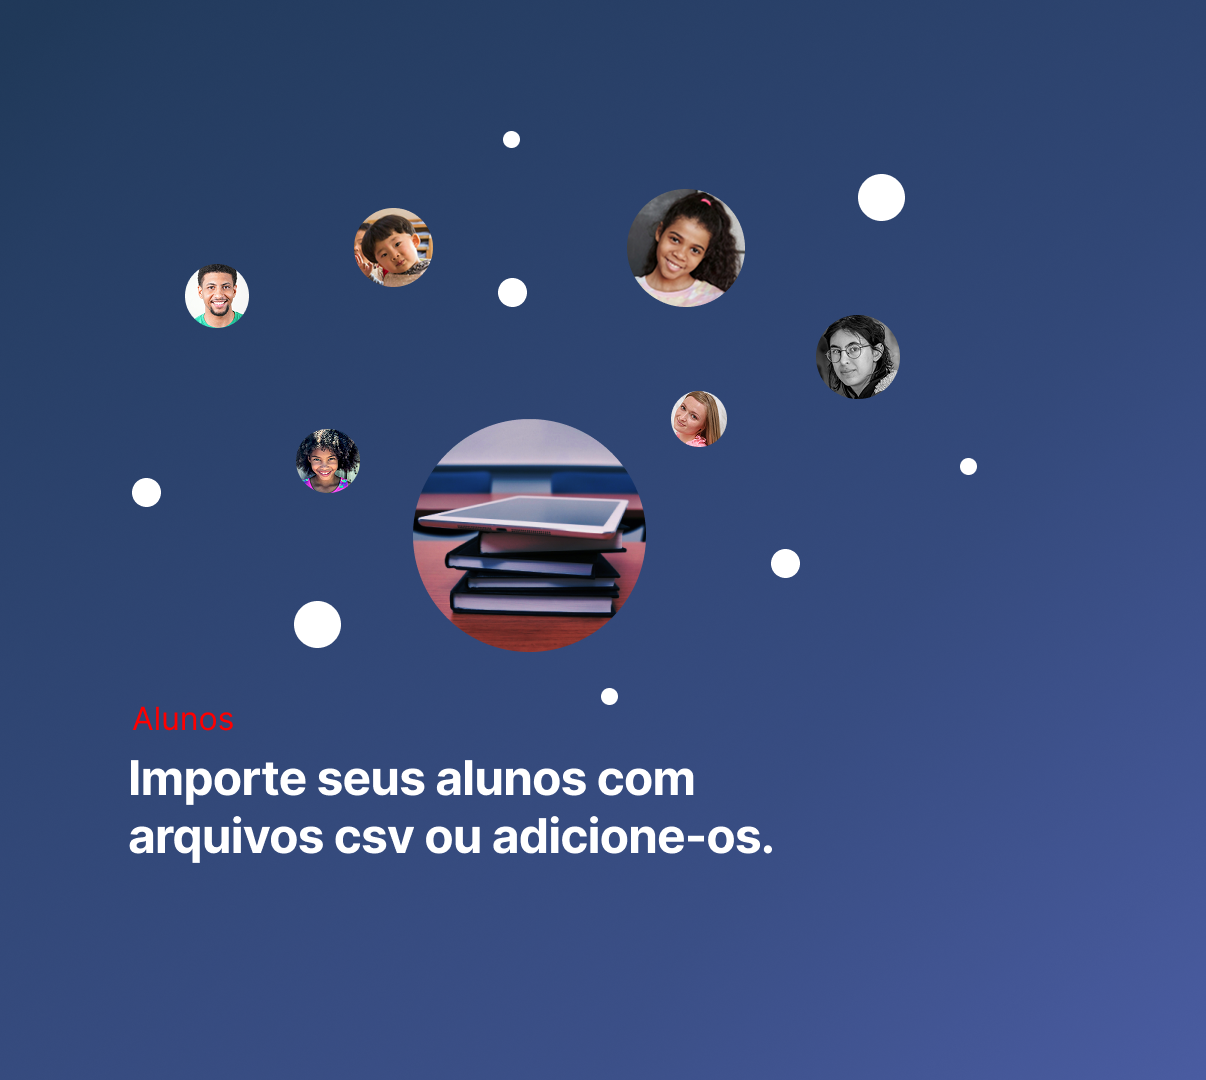
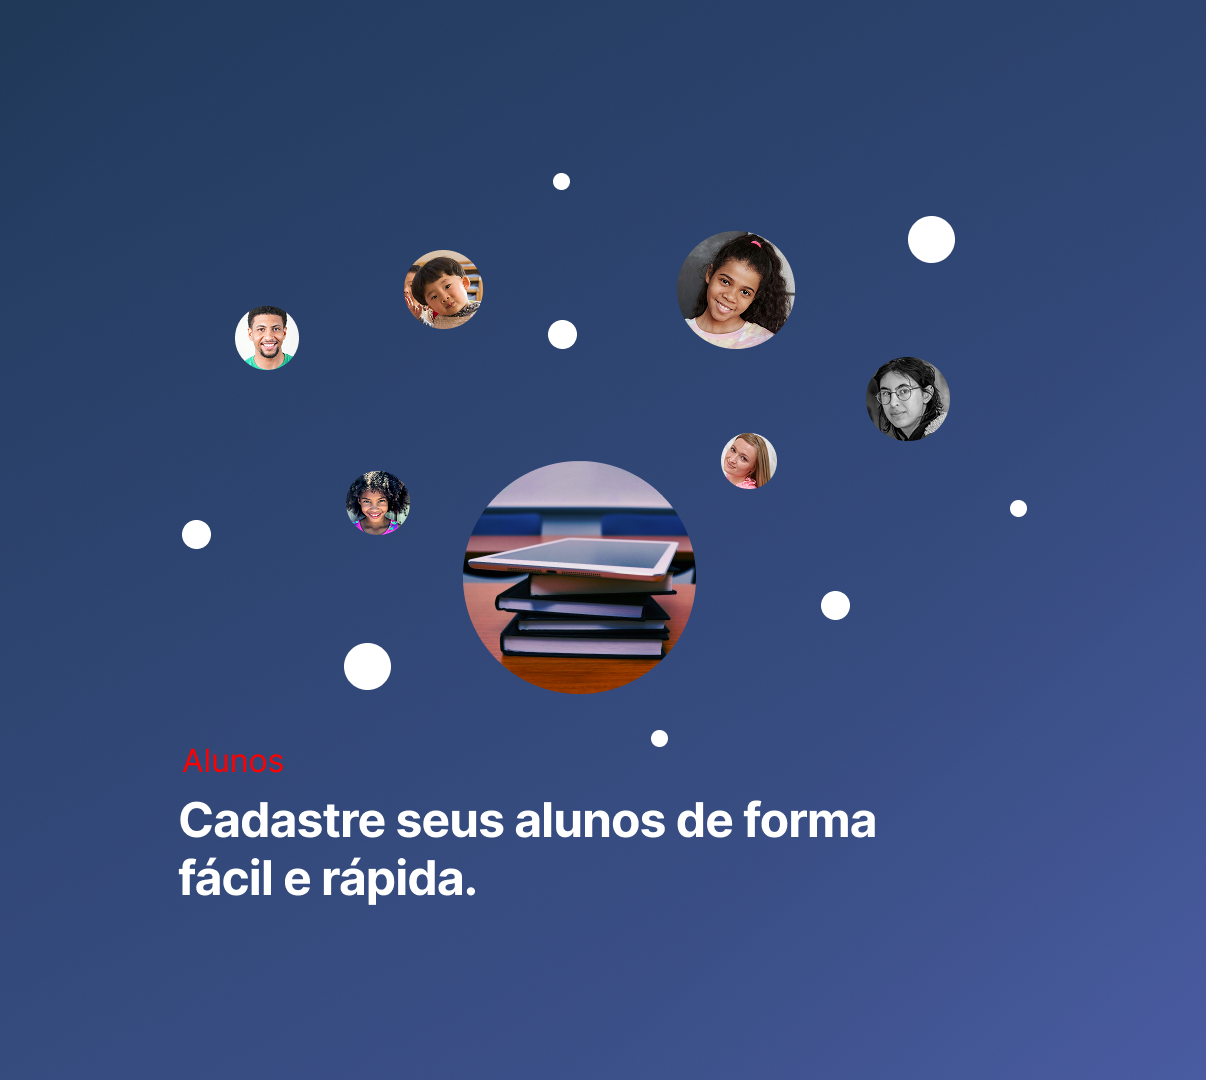
Carrosel fixed

diff --git a/frontend/luminus_frontend/app/register/register.module.css b/frontend/luminus_frontend/app/register/register.module.css
@@ -1,121 +1,112 @@
-/* register.module.css (Modificado para incluir scrollbar e carousel) */
+/* app/cadastro/cadastro.module.css */
 
 /* Container Principal da Página */
 .pageContainer {
-  display: flex; /* Habilita Flexbox para criar as colunas */
-  height: 100vh; /* Garante que o container ocupe a altura total da tela */
-  background-color: #f0f2f5; /* Fundo leve */
-  /* overflow: hidden; foi removido daqui para permitir scroll no leftPanel */
+  display: flex;
+  height: 100vh;
+  overflow: hidden; /* Mantém a página inteira não rolável */
+  background-color: #f0f2f5;
 }
 
 /* Coluna Esquerda (Formulário) */
 .leftPanel {
-  width: 35%; /* Largura da coluna esquerda */
+  width: 35%;
   background-color: white;
-  padding: 3rem 4rem; /* Espaçamento interno */
+  padding: 1rem 2.5rem; /* Reduzido ainda mais */
   display: flex;
-  flex-direction: column; /* Organiza itens internos em coluna */
+  flex-direction: column;
   align-items: center;
-  /* justify-content: center;  /* Removido ou ajustado para flex-start se preferir conteúdo no topo */
-  overflow-y: auto; /* <<< ADICIONADO: Habilita scroll vertical se necessário */
-  box-shadow: 2px 0 10px rgba(0, 0, 0, 0.1); /* Sombra */
-  z-index: 1; /* Garante que a sombra fique sobre a coluna direita */
-  /* Adicionado para garantir que o painel possa rolar */
-  max-height: 100vh; /* Limita a altura máxima à da viewport */
-  box-sizing: border-box; /* Garante que padding não aumente a altura total */
+  box-shadow: 2px 0 10px rgba(0, 0, 0, 0.1);
+  z-index: 1;
+  overflow-y: auto; /* Modificado para auto para permitir scroll apenas quando necessário */
 }
 
 /* Coluna Direita (Carrossel) */
 .rightPanel {
-  width: 65%; /* Ocupa o restante da largura */
-  background-color: #1a3a6d; /* Cor de fundo como fallback ou base */
+  width: 65%;
+  background-color: #1a3a6d;
   color: white;
-  position: relative; /* <<< MODIFICADO: Necessário para posicionar o logo e conter o carrossel */
-  overflow: hidden;   /* <<< ADICIONADO: Para conter slides que transbordam */
-  padding: 0; /* <<< MODIFICADO: Remove padding para o carrossel preencher */
-  /* display: flex, align-items, justify-content removidos */
+  position: relative;
+  overflow: hidden;
+  padding: 0;
 }
 
 /* Container do Logo Principal (Luminus) */
 .logoContainer {
-  margin-bottom: 2rem; /* Espaço abaixo do logo */
-  flex-shrink: 0; /* Impede que o logo encolha se o conteúdo for muito */
+  margin-bottom: 0.5rem; /* Reduzido ainda mais */
+  flex-shrink: 0;
+  transform: scale(0.9); /* Reduz levemente o tamanho do logo */
 }
 
-/* Container do Logo Secundário (Nexus - na coluna direita) */
+/* Container do Logo Secundário (Nexus) */
 .NexusLogoContainer {
-    position: absolute; /* <<< MODIFICADO: Posicionamento sobre o carrossel */
-    top: 1.5rem;         /* <<< AJUSTADO: Distância do topo (ajuste conforme gosto) */
-    left: 3rem;        /* <<< AJUSTADO: Distância da esquerda */
-    z-index: 2;        /* <<< ADICIONADO: Garante que fique acima do carrossel */
+  position: absolute;
+  top: 1.5rem;
+  left: 2rem;
+  z-index: 2;
+  transform: scale(0.9); /* Reduz levemente o tamanho do logo */
 }
 
-
-/* Título "REGISTRO" (ou CADASTRO) */
+/* Título "CADASTRO" */
 .title {
   text-align: center;
-  margin-bottom: 2rem;
+  margin-bottom: 0.5rem; /* Reduzido ainda mais */
   color: #333;
   font-weight: bold;
-  font-size: 1.8rem;
-  flex-shrink: 0; /* Impede que o título encolha */
+  font-size: 1.5rem; /* Reduzido */
+  flex-shrink: 0;
 }
 
 /* Formulário */
 .form {
   width: 100%;
-  max-width: 400px; /* Limita a largura máxima */
-  margin: 0 auto;
+  max-width: 400px;
   display: flex;
   flex-direction: column;
-  gap: 1.2rem; /* Espaço entre os inputs */
-  flex-grow: 1; /* Permite que o formulário cresça para ocupar espaço, ajudando no scroll */
-  /* Adicione padding inferior se necessário para dar espaço ao rolar até o fim */
-  padding-bottom: 2rem;
+  gap: 0.6rem; /* Reduzido ainda mais */
+  flex-shrink: 0;
 }
 
-/* Estilos de Input (mantidos como estavam no CSS original/Cadastro) */
-/* ... (TextInput, EmailInput, PhoneInput, PasswordInput usarão seus próprios estilos internos
-       ou você pode ter estilos globais aqui como .inputGroup se os componentes não encapsularem tudo) ... */
-/* Se você estava usando .inputGroup, mantenha essas regras: */
+/* Grupo de Input (Label + Input) */
 .inputGroup {
   display: flex;
   flex-direction: column;
-  gap: 0.4rem;
+  gap: 0.2rem; /* Reduzido */
 }
-.inputGroup label { /* Exemplo, ajuste se necessário */
+
+.inputGroup label {
   font-weight: 500;
-  font-size: 0.9rem;
+  font-size: 0.8rem; /* Reduzido */
   color: #555;
 }
-.inputGroup input { /* Exemplo, ajuste se necessário */
-  padding: 0.9rem 1rem;
+
+.inputGroup input {
+  padding: 0.6rem 0.8rem; /* Reduzido */
   border: 1px solid #ccc;
   border-radius: 4px;
-  font-size: 1rem;
+  font-size: 0.9rem; /* Reduzido */
   box-sizing: border-box;
   color: #333;
 }
-.inputGroup input:focus { /* Exemplo, ajuste se necessário */
+
+.inputGroup input:focus {
   outline: none;
   border-color: #1a3a6d;
   box-shadow: 0 0 0 2px rgba(26, 58, 109, 0.2);
 }
 
-
-/* Botão de Registro */
+/* Botão de Cadastro */
 .submitButton {
-  padding: 0.9rem 1.5rem;
+  padding: 0.6rem 1.2rem; /* Reduzido */
   background-color: #34495e;
   color: white;
   border: none;
   border-radius: 25px;
   cursor: pointer;
-  font-size: 1rem;
+  font-size: 0.9rem; /* Reduzido */
   font-weight: bold;
-  margin-top: 1rem;
+  margin-top: 0.6rem; /* Reduzido */
   transition: background-color 0.2s ease;
-  flex-shrink: 0; /* Impede que o botão encolha */
 }
 
 .submitButton:hover:not(:disabled) {
@@ -129,13 +120,12 @@
 
 /* Link para Login */
 .loginLink {
-  margin-top: 1.5rem;
+  margin-top: 0.7rem; /* Reduzido */
+  margin-bottom: 0.3rem; /* Reduzido */
   text-align: center;
-  font-size: 0.9rem;
+  font-size: 0.8rem; /* Reduzido */
   color: #555;
-  flex-shrink: 0; /* Impede que o link encolha */
-  /* Adicionado para garantir que seja visível mesmo com scroll */
-  padding-bottom: 1rem; /* Espaço extra no final */
+  flex-shrink: 0;
 }
 
 .loginLink a {
@@ -148,57 +138,56 @@
   text-decoration: underline;
 }
 
-/* Placeholder do Carrossel (Removido pois o Carrossel foi adicionado) */
-/* .carouselPlaceholder { ... } */
-
-/* Mensagem de Erro (Mantida) */
+/* Mensagem de Erro */
 .errorMessage {
   color: #e74c3c;
   background-color: #fadbd8;
   border: 1px solid #e74c3c;
-  padding: 0.8rem;
+  padding: 0.4rem; /* Reduzido */
   border-radius: 4px;
   text-align: center;
-  margin-bottom: 1rem;
-  font-size: 0.9rem;
+  margin-bottom: 0.6rem; /* Reduzido */
+  font-size: 0.8rem; /* Reduzido */
 }
 
-/* Ajustes para Telas Menores (Mantido) */
+/* Ajustes para Telas Menores (Manter como estava, permitindo scroll) */
 @media (max-width: 768px) {
   .pageContainer {
-    flex-direction: column; /* Empilha as colunas */
-    height: auto; /* Permite que o conteúdo defina a altura */
-    min-height: 100vh; /* Garante pelo menos a altura da tela */
+      flex-direction: column;
+      height: auto;
+      min-height: 100vh;
+      overflow: visible;
   }
 
   .leftPanel,
   .rightPanel {
-    width: 100%; /* Largura total */
-    min-height: auto; /* Altura definida pelo conteúdo */
-    max-height: none; /* Remove limite de altura em telas pequenas */
-    box-shadow: none;
-    overflow-y: visible; /* Desativa scroll interno no painel esquerdo */
+      width: 100%;
+      min-height: auto;
+      overflow-y: visible;
+      scrollbar-gutter: auto;
+      padding: 1.5rem; /* Reduzido */
   }
 
-  .leftPanel {
-      padding: 2rem; /* Menos padding */
-      /* A página inteira rolará agora, não apenas o painel */
-  }
-
-  .rightPanel {
-      /* Ajustar altura mínima ou específica se necessário para o carrossel */
-      min-height: 50vh; /* Exemplo: Dar alguma altura mínima */
-      /* O padding: 0 e overflow: hidden ainda são importantes para o carrossel */
+   .rightPanel {
+      min-height: 50vh;
   }
 
   .form {
       max-width: 100%;
-      padding-bottom: 1rem; /* Reduz padding inferior do form */
+      gap: 0.8rem; /* Reduzido */
   }
 
-  .NexusLogoContainer {
-      /* Pode precisar ajustar posicionamento em telas menores */
-      top: 1rem;
-      left: 1.5rem;
+  .inputGroup input {
+      padding: 0.8rem 0.9rem; /* Reduzido */
+  }
+
+   .submitButton {
+      padding: 0.8rem 1.3rem; /* Reduzido */
+      margin-top: 0.8rem; /* Reduzido */
+  }
+
+  .loginLink {
+      margin-top: 1.2rem; /* Reduzido */
+      margin-bottom: 0;
   }
 }

diff --git a/frontend/luminus_frontend/app/register/page.tsx b/frontend/luminus_frontend/app/register/page.tsx
@@ -153,7 +153,7 @@ export default function RegisterPage() { // <- Nome do componente atualizado par
           />
         </div>
 
-        <h1 className={styles.title}>REGISTRO</h1> {/* Título pode ser ajustado */}
+        <h1 className={styles.title}>CADASTRO</h1> {/* Título pode ser ajustado */}
 
         <form onSubmit={handleSubmit} className={styles.form} noValidate>
           {/* Campos do formulário (mantidos como estavam) */}
@@ -219,7 +219,7 @@ export default function RegisterPage() { // <- Nome do componente atualizado par
             className={`${styles.submitButton} mt-3`}
             disabled={isLoading}
           >
-            {isLoading ? 'Registrando...' : 'Registrar'} {/* Texto do botão ajustado */}
+            {isLoading ? 'Cadastrando...' : 'Cadastrar'} {/* Texto do botão ajustado */}
           </button>
         </form>
 
